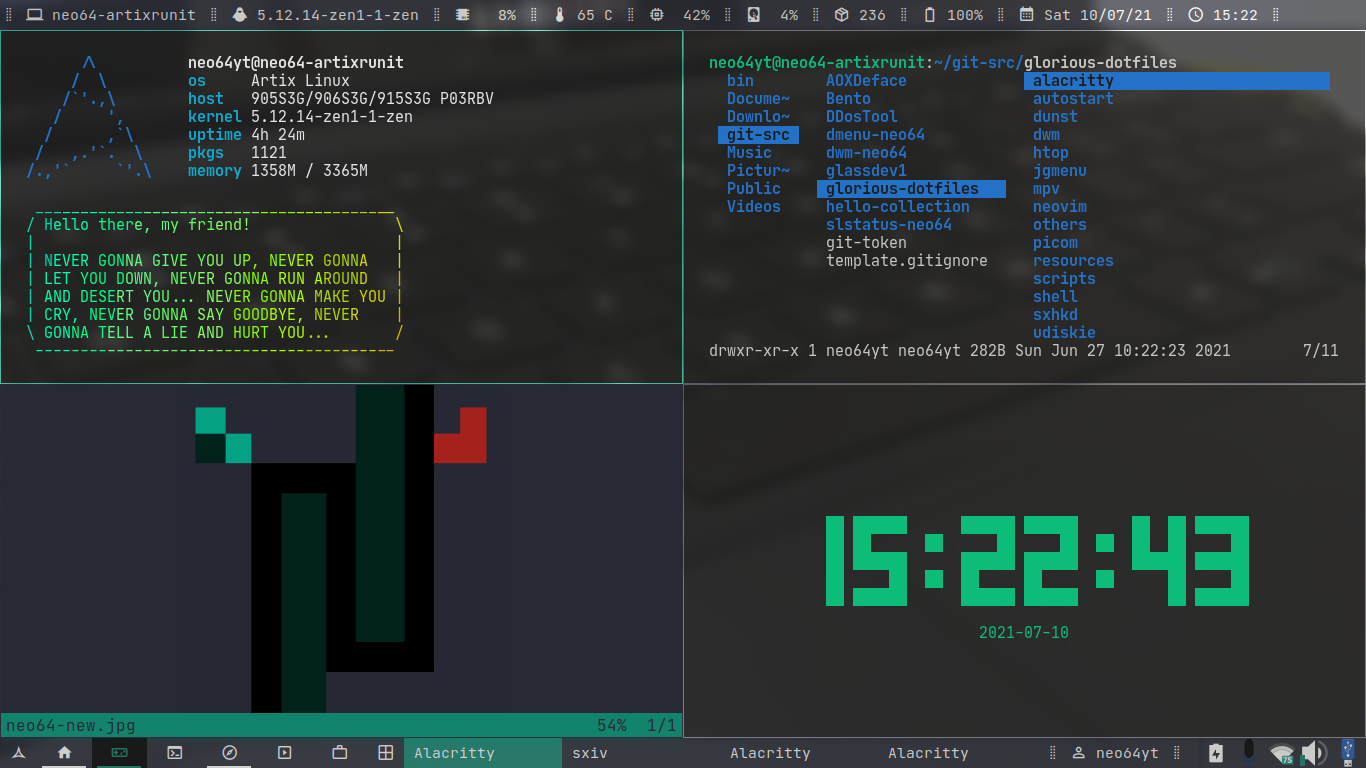
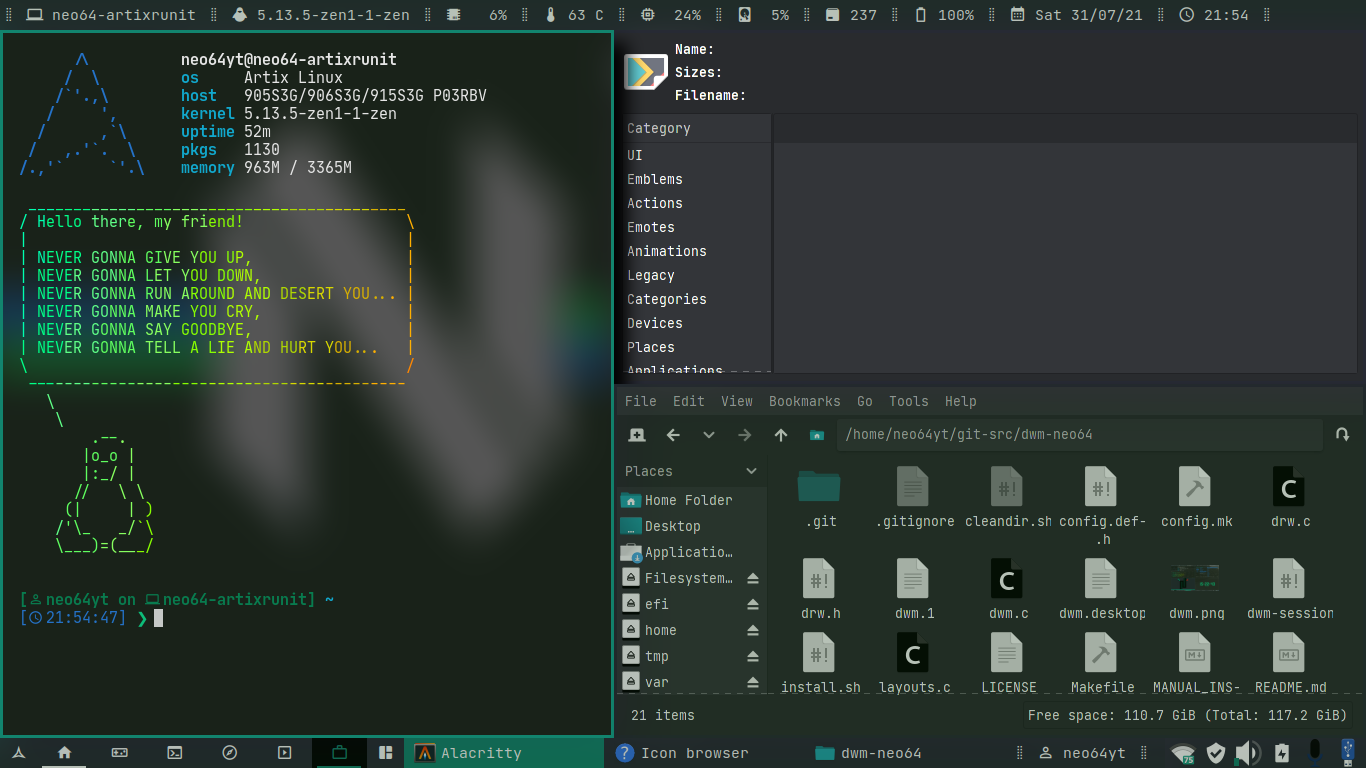
Added alwayscenter and winicon patch

diff --git a/dwm.c b/dwm.c
@@ -28,6 +28,8 @@
 #include <stdlib.h>
 #include <string.h>
 #include <unistd.h>
+#include <limits.h>
+#include <stdint.h>
 #include <sys/types.h>
 #include <sys/wait.h>
 #include <X11/cursorfont.h>
@@ -40,6 +42,7 @@
 #include <X11/extensions/Xinerama.h>
 #endif /* XINERAMA */
 #include <X11/Xft/Xft.h>
+#include <Imlib2.h>
 #include <X11/Xlib-xcb.h>
 #include <xcb/res.h>
 #ifdef __OpenBSD__
@@ -85,7 +88,7 @@
 /* enums */
 enum { CurNormal, CurResize, CurMove, CurLast }; /* cursor */
 enum { SchemeNorm, SchemeSel, SchemeStatus, SchemeTagsSel, SchemeTagsNorm, SchemeInfoSel, SchemeInfoNorm, SchemeHid }; /* color schemes */
-enum { NetSupported, NetWMName, NetWMState, NetWMCheck,
+enum { NetSupported, NetWMName, NetWMIcon, NetWMState, NetWMCheck,
        NetSystemTray, NetSystemTrayOP, NetSystemTrayOrientation, NetSystemTrayOrientationHorz,
        NetWMFullscreen, NetActiveWindow, NetWMWindowType,
        NetWMWindowTypeDialog, NetClientList, NetDesktopNames, NetDesktopViewport, NetNumberOfDesktops, NetCurrentDesktop, NetLast }; /* EWMH atoms */
@@ -120,6 +123,7 @@ struct Client {
 	int bw, oldbw;
 	unsigned int tags;
 	int isfixed, isfloating, isurgent, neverfocus, oldstate, isfullscreen, isterminal, noswallow;
+	XImage *icon;
 	pid_t pid;
 	Client *next;
 	Client *snext;
@@ -216,6 +220,7 @@ static void focusstack(const Arg *arg);
 static Atom getatomprop(Client *c, Atom prop);
 static int getrootptr(int *x, int *y);
 static long getstate(Window w);
+static XImage *geticonprop(Window win);
 static unsigned int getsystraywidth();
 static int gettextprop(Window w, Atom atom, char *text, unsigned int size);
 static void grabbuttons(Client *c, int focused);
@@ -272,6 +277,7 @@ static void togglefloating(const Arg *arg);
 static void togglefullscr(const Arg *arg);
 static void toggletag(const Arg *arg);
 static void toggleview(const Arg *arg);
+static void freeicon(Client *c);
 static void togglewin(const Arg *arg);
 static void unfocus(Client *c, int setfocus);
 static void unmanage(Client *c, int destroyed);
@@ -288,6 +294,7 @@ static void updatesystray(void);
 static void updatesystrayicongeom(Client *i, int w, int h);
 static void updatesystrayiconstate(Client *i, XPropertyEvent *ev);
 static void updatetitle(Client *c);
+static void updateicon(Client *c);
 static void updatewindowtype(Client *c);
 static void updatewmhints(Client *c);
 static void view(const Arg *arg);
@@ -1007,7 +1014,9 @@ drawbar(Monitor *m)
 					}
 					remainder--;
 				}
-				drw_text(drw, x, 0, tabw, bh, lrpad / 2, c->name, 0);
+				drw_text(drw, x, 0, tabw, bh, lrpad / 2 + (c->icon ? c->icon->width + ICONSPACING : 0), c->name, 0);
+				static uint32_t tmp[ICONSIZE * ICONSIZE];
+				if (c->icon) drw_img(drw, x + lrpad / 2, (bh - c->icon->height) / 2, c->icon, tmp);
 				x += tabw;
 			}
 		} else {
@@ -1205,6 +1214,85 @@ getsystraywidth()
 	return w ? w + systrayspacing : 1;
 }
 
+static uint32_t prealpha(uint32_t p) {
+	uint8_t a = p >> 24u;
+	uint32_t rb = (a * (p & 0xFF00FFu)) >> 8u;
+	uint32_t g = (a * (p & 0x00FF00u)) >> 8u;
+	return (rb & 0xFF00FFu) | (g & 0x00FF00u) | ((~a) << 24u);
+}
+
+XImage *
+geticonprop(Window win)
+{
+	int format;
+	unsigned long n, extra, *p = NULL;
+	Atom real;
+
+	if (XGetWindowProperty(dpy, win, netatom[NetWMIcon], 0L, LONG_MAX, False, AnyPropertyType, 
+						   &real, &format, &n, &extra, (unsigned char **)&p) != Success)
+		return NULL; 
+	if (n == 0 || format != 32) { XFree(p); return NULL; }
+
+	unsigned long *bstp = NULL;
+	uint32_t w, h, sz;
+
+	{
+		const unsigned long *end = p + n;
+		unsigned long *i;
+		uint32_t bstd = UINT32_MAX, d, m;
+		for (i = p; i < end - 1; i += sz) {
+			if ((w = *i++) > UINT16_MAX || (h = *i++) > UINT16_MAX) { XFree(p); return NULL; }
+			if ((sz = w * h) > end - i) break;
+			if ((m = w > h ? w : h) >= ICONSIZE && (d = m - ICONSIZE) < bstd) { bstd = d; bstp = i; }
+		}
+		if (!bstp) {
+			for (i = p; i < end - 1; i += sz) {
+				if ((w = *i++) > UINT16_MAX || (h = *i++) > UINT16_MAX) { XFree(p); return NULL; }
+				if ((sz = w * h) > end - i) break;
+				if ((d = ICONSIZE - (w > h ? w : h)) < bstd) { bstd = d; bstp = i; }
+			}
+		}
+		if (!bstp) { XFree(p); return NULL; }
+	}
+
+	if ((w = *(bstp - 2)) == 0 || (h = *(bstp - 1)) == 0) { XFree(p); return NULL; }
+
+	uint32_t icw, ich, icsz;
+	if (w <= h) {
+		ich = ICONSIZE; icw = w * ICONSIZE / h;
+		if (icw == 0) icw = 1;
+	}
+	else {
+		icw = ICONSIZE; ich = h * ICONSIZE / w;
+		if (ich == 0) ich = 1;
+	}
+	icsz = icw * ich;
+
+	uint32_t i;
+#if ULONG_MAX > UINT32_MAX
+	uint32_t *bstp32 = (uint32_t *)bstp;
+	for (sz = w * h, i = 0; i < sz; ++i) bstp32[i] = bstp[i];
+#endif
+	uint32_t *icbuf = malloc(icsz << 2); if(!icbuf) { XFree(p); return NULL; }
+	if (w == icw && h == ich) memcpy(icbuf, bstp, icsz << 2);
+	else {
+		Imlib_Image origin = imlib_create_image_using_data(w, h, (DATA32 *)bstp);
+		if (!origin) { XFree(p); free(icbuf); return NULL; }
+		imlib_context_set_image(origin);
+		imlib_image_set_has_alpha(1);
+		Imlib_Image scaled = imlib_create_cropped_scaled_image(0, 0, w, h, icw, ich);
+		imlib_free_image_and_decache();
+		if (!scaled) { XFree(p); free(icbuf); return NULL; }
+		imlib_context_set_image(scaled);
+		imlib_image_set_has_alpha(1);
+		memcpy(icbuf, imlib_image_get_data_for_reading_only(), icsz << 2);
+		imlib_free_image_and_decache();
+	}
+	XFree(p);
+	for (i = 0; i < icsz; ++i) icbuf[i] = prealpha(icbuf[i]);
+	return XCreateImage(dpy, DefaultVisual(dpy, screen), DefaultDepth(dpy, screen), ZPixmap, 0, (char *)icbuf, icw, ich, 32, 0);
+}
+
 int
 gettextprop(Window w, Atom atom, char *text, unsigned int size)
 {
@@ -1362,6 +1450,8 @@ manage(Window w, XWindowAttributes *wa)
 	c->h = c->oldh = wa->height;
 	c->oldbw = wa->border_width;
 
+	c->icon = NULL;
+	updateicon(c);
 	updatetitle(c);
 	if (XGetTransientForHint(dpy, w, &trans) && (t = wintoclient(trans))) {
 		c->mon = t->mon;
@@ -1389,6 +1479,8 @@ manage(Window w, XWindowAttributes *wa)
 	updatewindowtype(c);
 	updatesizehints(c);
 	updatewmhints(c);
+	c->x = c->mon->mx + (c->mon->mw - WIDTH(c)) / 2;
+	c->y = c->mon->my + (c->mon->mh - HEIGHT(c)) / 2;
 	XSelectInput(dpy, w, EnterWindowMask|FocusChangeMask|PropertyChangeMask|StructureNotifyMask);
 	grabbuttons(c, 0);
 	if (!c->isfloating)
@@ -1594,6 +1686,11 @@ propertynotify(XEvent *e)
 		}
 		if (ev->atom == XA_WM_NAME || ev->atom == netatom[NetWMName]) {
 			updatetitle(c);
+			if (c == c->mon->sel)
+				drawbar(c->mon);
+		}
+		else if (ev->atom == netatom[NetWMIcon]) {
+			updateicon(c);
 			if (c == c->mon->sel)
 				drawbar(c->mon);
 		}
@@ -2008,6 +2105,7 @@ setup(void)
 	netatom[NetSystemTrayOrientation] = XInternAtom(dpy, "_NET_SYSTEM_TRAY_ORIENTATION", False);
 	netatom[NetSystemTrayOrientationHorz] = XInternAtom(dpy, "_NET_SYSTEM_TRAY_ORIENTATION_HORZ", False);
 	netatom[NetWMName] = XInternAtom(dpy, "_NET_WM_NAME", False);
+	netatom[NetWMIcon] = XInternAtom(dpy, "_NET_WM_ICON", False);
 	netatom[NetWMState] = XInternAtom(dpy, "_NET_WM_STATE", False);
 	netatom[NetWMCheck] = XInternAtom(dpy, "_NET_SUPPORTING_WM_CHECK", False);
 	netatom[NetWMFullscreen] = XInternAtom(dpy, "_NET_WM_STATE_FULLSCREEN", False);
@@ -2270,6 +2368,15 @@ togglewin(const Arg *arg)
 }
 
 void
+freeicon(Client *c)
+{
+	if (c->icon) {
+		XDestroyImage(c->icon);
+		c->icon = NULL;
+	}
+}
+
+void
 unfocus(Client *c, int setfocus)
 {
 	if (!c)
@@ -2304,6 +2411,7 @@ unmanage(Client *c, int destroyed)
 
 	detach(c);
 	detachstack(c);
+	freeicon(c);
 	if (!destroyed) {
 		wc.border_width = c->oldbw;
 		XGrabServer(dpy); /* avoid race conditions */
@@ -2699,6 +2807,13 @@ updatetitle(Client *c)
 		gettextprop(c->win, XA_WM_NAME, c->name, sizeof c->name);
 	if (c->name[0] == '\0') /* hack to mark broken clients */
 		strcpy(c->name, broken);
+}
+
+void
+updateicon(Client *c)
+{
+	freeicon(c);
+	c->icon = geticonprop(c->win);
 }
 
 void

diff --git a/drw.c b/drw.c
@@ -2,6 +2,7 @@
 #include <stdio.h>
 #include <stdlib.h>
 #include <string.h>
+#include <stdint.h>
 #include <X11/Xlib.h>
 #include <X11/Xft/Xft.h>
 
@@ -379,6 +380,26 @@ drw_text(Drw *drw, int x, int y, unsigned int w, unsigned int h, unsigned int lp
 		XftDrawDestroy(d);
 
 	return x + (render ? w : 0);
+}
+
+static uint32_t blend(uint32_t p1rb, uint32_t p1g, uint32_t p2) {
+	uint8_t a = p2 >> 24u;
+	uint32_t rb = (p2 & 0xFF00FFu) + ( (a * p1rb) >> 8u );
+	uint32_t g = (p2 & 0x00FF00u) + ( (a * p1g) >> 8u );
+	return (rb & 0xFF00FFu) | (g & 0x00FF00u);
+}
+
+void
+drw_img(Drw *drw, int x, int y, XImage *img, uint32_t *tmp) 
+{
+	if (!drw || !drw->scheme)
+		return;
+	uint32_t *data = (uint32_t *)img->data, p = drw->scheme[ColBg].pixel, prb = p & 0xFF00FFu, pg = p & 0x00FF00u;
+	int icsz = img->width * img->height, i;
+	for (i = 0; i < icsz; ++i) tmp[i] = blend(prb, pg, data[i]);
+	img->data = (char *) tmp;
+	XPutImage(drw->dpy, drw->drawable, drw->gc, img, 0, 0, x, y, img->width, img->height);
+	img->data = (char *) data;
 }
 
 void

diff --git a/drw.h b/drw.h
@@ -52,6 +52,7 @@ void drw_setscheme(Drw *drw, Clr *scm);
 /* Drawing functions */
 void drw_rect(Drw *drw, int x, int y, unsigned int w, unsigned int h, int filled, int invert);
 int drw_text(Drw *drw, int x, int y, unsigned int w, unsigned int h, unsigned int lpad, const char *text, int invert);
+void drw_img(Drw *drw, int x, int y, XImage *img, uint32_t *tmp);
 
 /* Map functions */
 void drw_map(Drw *drw, Window win, int x, int y, unsigned int w, unsigned int h);

diff --git a/config.def.h b/config.def.h
@@ -1,5 +1,9 @@
 /* See LICENSE file for copyright and license details. */
 
+/* Window icon */
+#define ICONSIZE 22   /* icon size */
+#define ICONSPACING 5 /* space between icon and title */
+
 /* appearance */
 static const unsigned int borderpx  = 3;        /* border pixel of windows */
 static const unsigned int snap      = 32;       /* snap pixel */

diff --git a/README.md b/README.md
@@ -8,6 +8,7 @@ dwm (Dynamic Window Manager) is a lightweight dynamic window manager by suckless
 * activetagindicatorbar (modified)
 * actualfullscreen
 * alternativetags
+* alwayscenter
 * aspectresize
 * attachaside
 * awesomebar
@@ -23,6 +24,7 @@ dwm (Dynamic Window Manager) is a lightweight dynamic window manager by suckless
 * systray
 * statusbutton
 * swallow
+* winicon
 
 ## These files are installed on the system:
 * /usr/local/bin/dwm (dwm binary)
